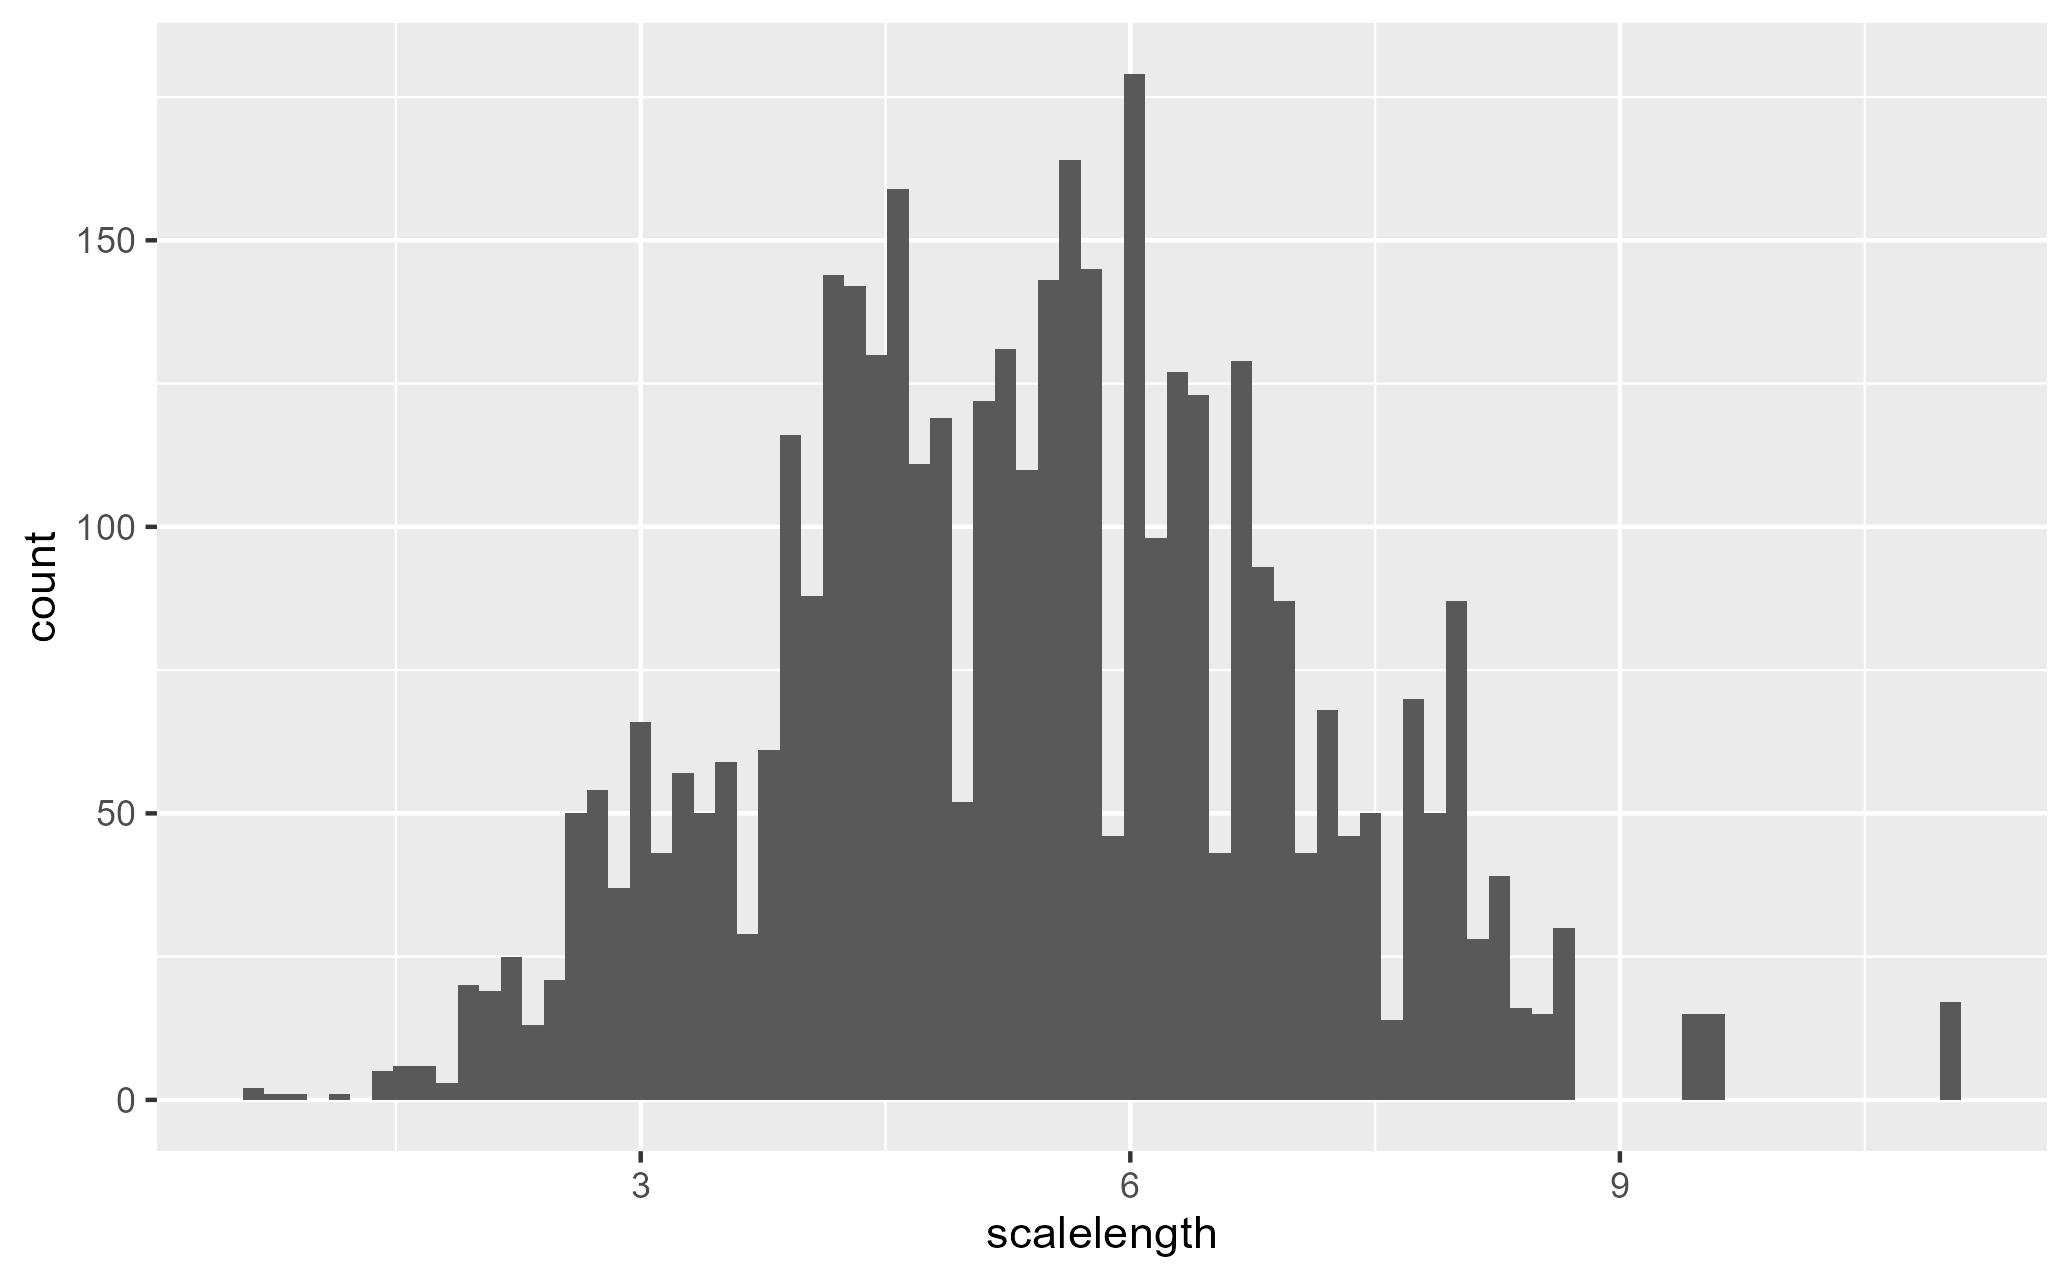
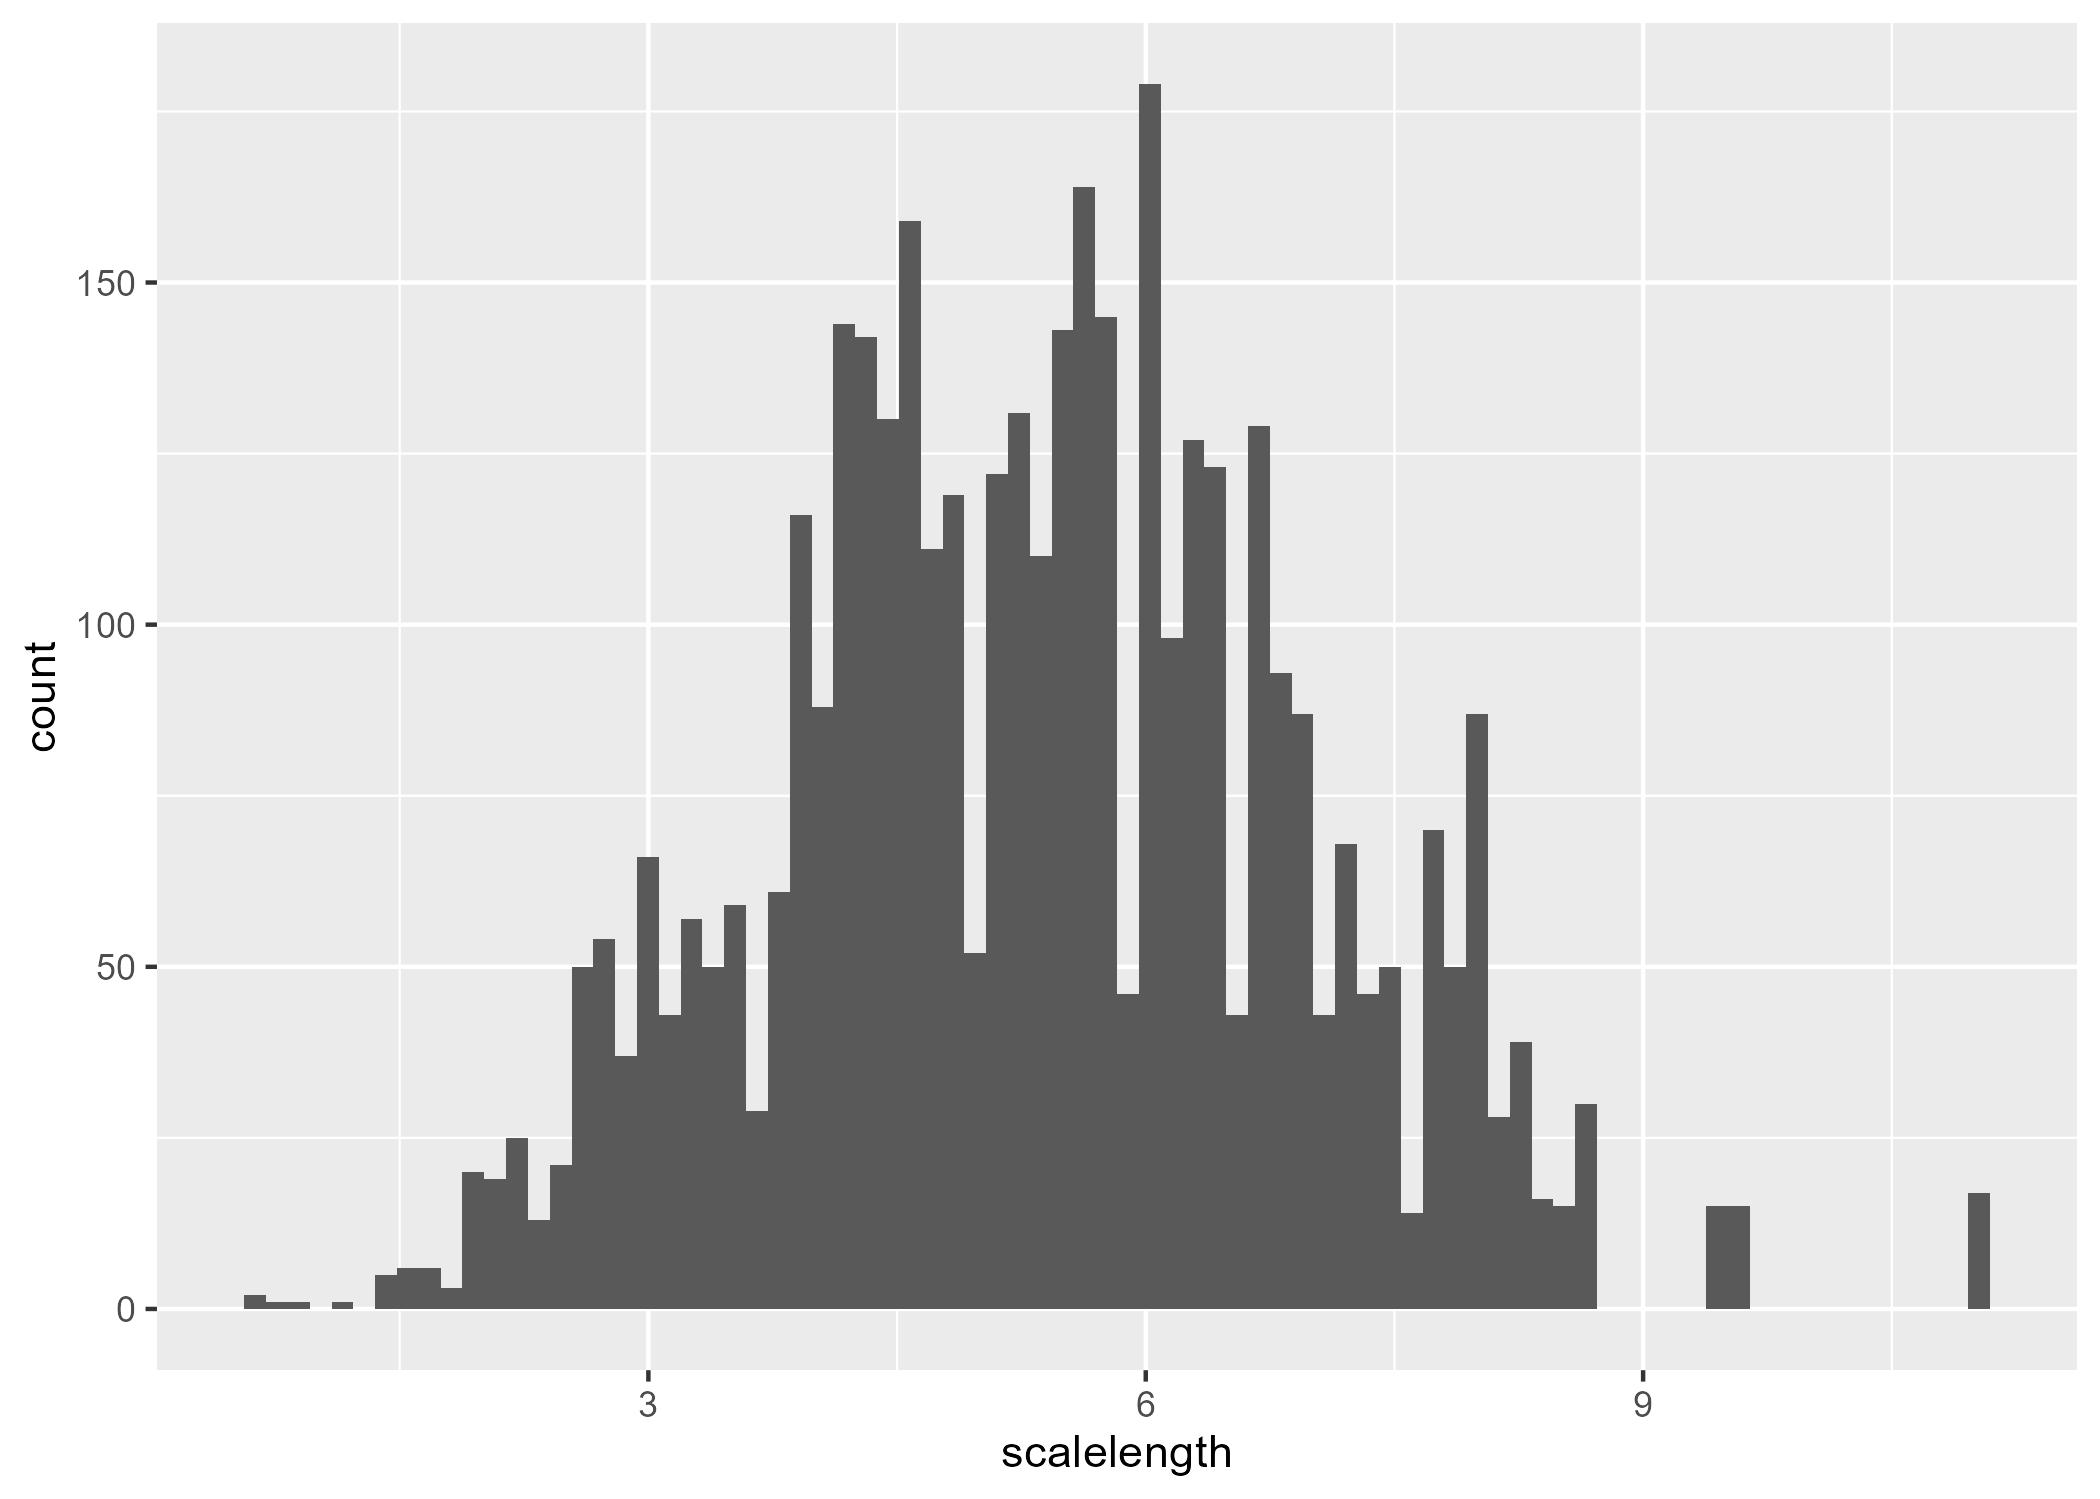
Save Plot

diff --git a/WEEK 10/code/fish_analysis.md b/WEEK 10/code/fish_analysis.md
@@ -1,0 +1,107 @@
+# Week 10 Fish Analysis
+Alan Morales
+
+## Fish Scale Analysis
+
+Load the tidyverse and the data set
+
+``` r
+library(tidyverse)
+```
+
+    ── Attaching core tidyverse packages ──────────────────────── tidyverse 2.0.0 ──
+    ✔ dplyr     1.2.1     ✔ readr     2.2.0
+    ✔ forcats   1.0.1     ✔ stringr   1.6.0
+    ✔ ggplot2   4.0.3     ✔ tibble    3.3.1
+    ✔ lubridate 1.9.5     ✔ tidyr     1.3.2
+    ✔ purrr     1.2.2     
+    ── Conflicts ────────────────────────────────────────── tidyverse_conflicts() ──
+    ✖ dplyr::filter() masks stats::filter()
+    ✖ dplyr::lag()    masks stats::lag()
+    ℹ Use the conflicted package (<http://conflicted.r-lib.org/>) to force all conflicts to become errors
+
+``` r
+fish_data <- read_csv("../data/Gaeta_etal_CLC_data.csv")
+```
+
+    Rows: 4033 Columns: 6
+    ── Column specification ────────────────────────────────────────────────────────
+    Delimiter: ","
+    chr (2): lakeid, annnumber
+    dbl (4): fish_id, length, radii_length_mm, scalelength
+
+    ℹ Use `spec()` to retrieve the full column specification for this data.
+    ℹ Specify the column types or set `show_col_types = FALSE` to quiet this message.
+
+Observe the data set
+
+``` r
+head(fish_data)
+```
+
+    # A tibble: 6 × 6
+      lakeid fish_id annnumber length radii_length_mm scalelength
+      <chr>    <dbl> <chr>      <dbl>           <dbl>       <dbl>
+    1 AL         299 EDGE         167            2.70        2.70
+    2 AL         299 2            167            2.04        2.70
+    3 AL         299 1            167            1.31        2.70
+    4 AL         300 EDGE         175            3.02        3.02
+    5 AL         300 3            175            2.67        3.02
+    6 AL         300 2            175            2.14        3.02
+
+Summary statistics for fish scale length
+
+``` r
+fish_data |> 
+  summarize(min_scale_length = min(scalelength, na.rm = T), max_scale_length = max(scalelength, na.rm = T), mean_scale_length = mean(scalelength, na.rm = T))
+```
+
+    # A tibble: 1 × 3
+      min_scale_length max_scale_length mean_scale_length
+                 <dbl>            <dbl>             <dbl>
+    1            0.628             11.0              5.38
+
+\# Question 3 - Remove fish with scale lengths below 1 mm
+
+``` r
+fish_filtered <- fish_data |> filter(scalelength >= 1)
+
+nrow(fish_filtered)
+```
+
+    [1] 4029
+
+``` r
+write_csv(fish_filtered, "../data/fish_filtered.csv")
+
+fish_filtered
+```
+
+    # A tibble: 4,029 × 6
+       lakeid fish_id annnumber length radii_length_mm scalelength
+       <chr>    <dbl> <chr>      <dbl>           <dbl>       <dbl>
+     1 AL         299 EDGE         167            2.70        2.70
+     2 AL         299 2            167            2.04        2.70
+     3 AL         299 1            167            1.31        2.70
+     4 AL         300 EDGE         175            3.02        3.02
+     5 AL         300 3            175            2.67        3.02
+     6 AL         300 2            175            2.14        3.02
+     7 AL         300 1            175            1.23        3.02
+     8 AL         301 EDGE         194            3.34        3.34
+     9 AL         301 3            194            2.97        3.34
+    10 AL         301 2            194            2.29        3.34
+    # ℹ 4,019 more rows
+
+``` r
+scalelength_plot <- ggplot(fish_data, aes(x = scalelength)) +
+  geom_histogram(bins=80)
+scalelength_plot
+```
+
+![](fish_analysis_files/figure-commonmark/unnamed-chunk-5-1.png)
+
+``` r
+ggsave("../code/scale_hist_by_length.jpg", plot = scalelength_plot)
+```
+
+    Saving 7 x 5 in image
